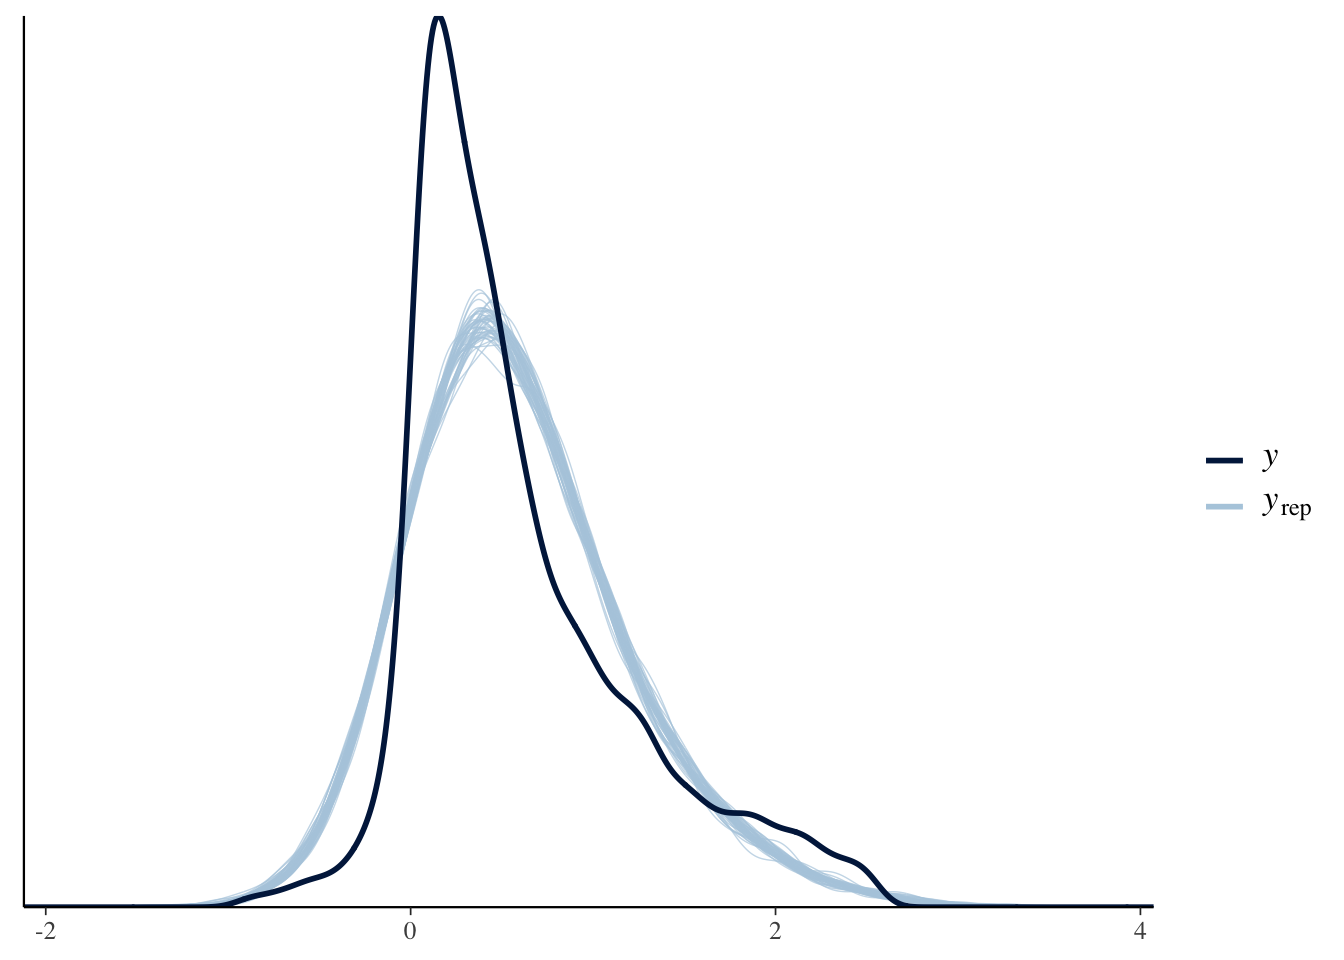
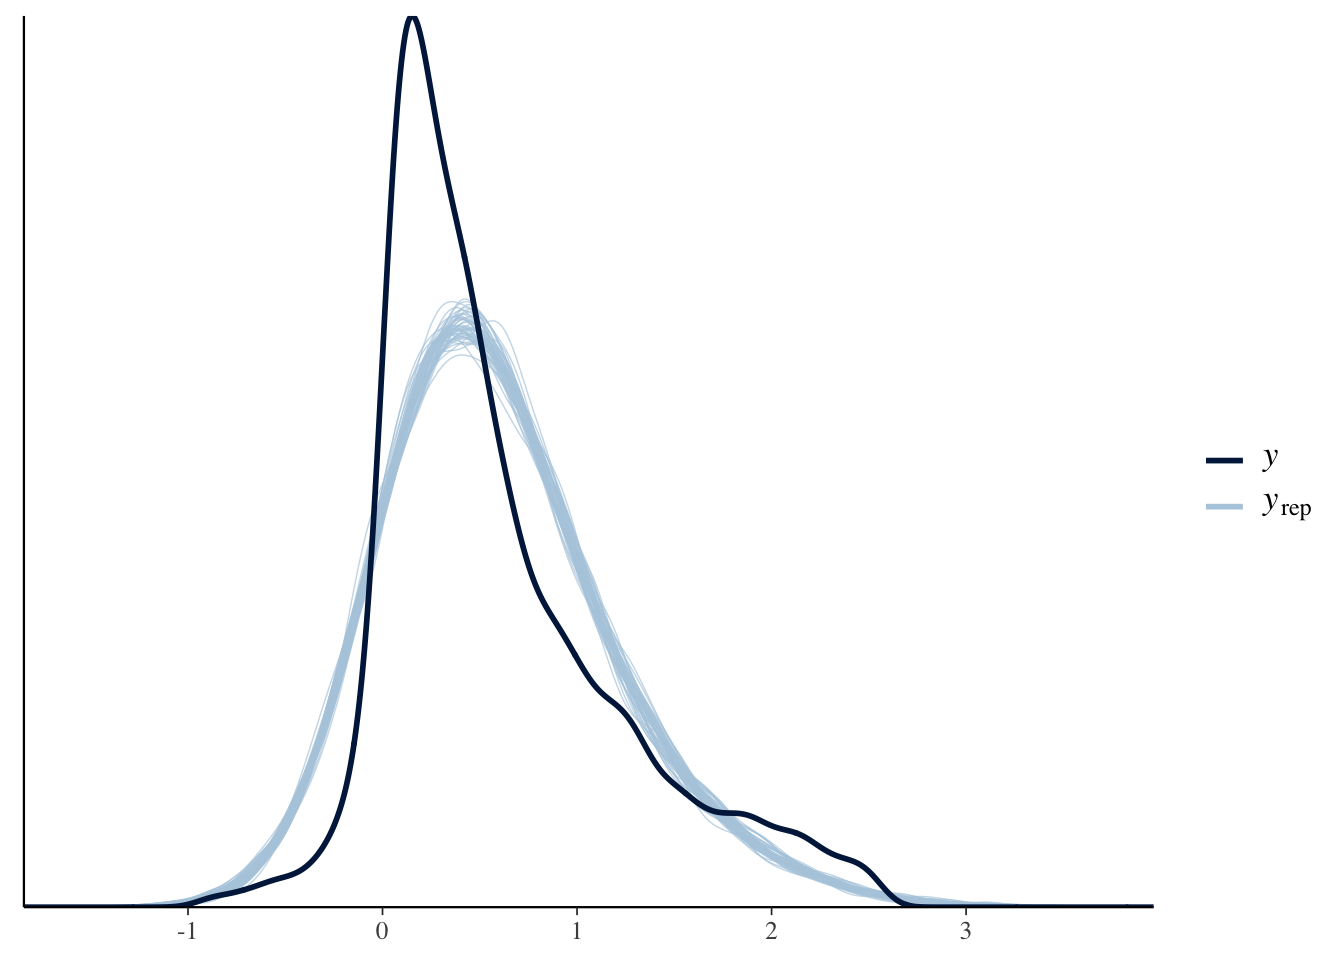
final edits

Changed region(s): [[0.125, 0.0, 0.5938, 0.9688], [0.5938, 0.9062, 0.6875, 0.9375], [0.2812, 0.9375, 0.3125, 0.9688]]

diff --git a/docs/finalmodel.html b/docs/finalmodel.html
@@ -275,19 +275,17 @@ Y_{ij} | \beta_{0j}, \beta_{1j}, \sigma_y &amp; \sim N(\mu_{ij}, \sigma_y^2) \;\
 <h2><span class="header-section-number">5.2</span> Model Evaluation</h2>
 <div id="diagnostic-plots" class="section level3" number="5.2.1">
 <h3><span class="header-section-number">5.2.1</span> Diagnostic Plots</h3>
-<div class="sourceCode" id="cb68"><pre class="sourceCode r"><code class="sourceCode r"><span id="cb68-1"><a href="finalmodel.html#cb68-1" aria-hidden="true" tabindex="-1"></a><span class="fu">mcmc_trace</span>(Diff_inter_slope_train)</span>
-<span id="cb68-2"><a href="finalmodel.html#cb68-2" aria-hidden="true" tabindex="-1"></a><span class="fu">mcmc_dens_overlay</span>(Diff_inter_slope_train)</span></code></pre></div>
-<div class="sourceCode" id="cb69"><pre class="sourceCode r"><code class="sourceCode r"><span id="cb69-1"><a href="finalmodel.html#cb69-1" aria-hidden="true" tabindex="-1"></a><span class="fu">pp_check</span>(Diff_inter_slope_train)</span></code></pre></div>
-<p><img src="series_files/figure-html/unnamed-chunk-68-1.png" width="672" /></p>
-<p>The model did an okay job modeling the true structure of the data. We see that several company earnings’ on the right seem to be causing the model some difficulties.</p>
+<div class="sourceCode" id="cb68"><pre class="sourceCode r"><code class="sourceCode r"><span id="cb68-1"><a href="finalmodel.html#cb68-1" aria-hidden="true" tabindex="-1"></a><span class="fu">pp_check</span>(Diff_inter_slope_train)</span></code></pre></div>
+<p><img src="series_files/figure-html/unnamed-chunk-67-1.png" width="672" /></p>
+<p>The model did an okay job modeling the true structure of the data. We see that several company earnings’ on the right still seem to be causing the model some difficulties.</p>
 </div>
 <div id="metrics" class="section level3" number="5.2.2">
 <h3><span class="header-section-number">5.2.2</span> Metrics</h3>
-<div class="sourceCode" id="cb70"><pre class="sourceCode r"><code class="sourceCode r"><span id="cb70-1"><a href="finalmodel.html#cb70-1" aria-hidden="true" tabindex="-1"></a>Diff_inter_slope_metrics</span></code></pre></div>
+<div class="sourceCode" id="cb69"><pre class="sourceCode r"><code class="sourceCode r"><span id="cb69-1"><a href="finalmodel.html#cb69-1" aria-hidden="true" tabindex="-1"></a>Diff_inter_slope_metrics</span></code></pre></div>
 <pre><code>##         MAE  Within95  Within50  Within90
 ## 1 0.2781092 0.7931034 0.4935345 0.7262931</code></pre>
 <p>In our model with varying intercepts and slopes the average median posterior prediction is off by 0.28 billion. Furthermore, 79.3% of the earnings next year fall within the 95% prediction intervals and 49.4% are within the 50% prediction intervals.</p>
-<div class="sourceCode" id="cb72"><pre class="sourceCode r"><code class="sourceCode r"><span id="cb72-1"><a href="finalmodel.html#cb72-1" aria-hidden="true" tabindex="-1"></a><span class="fu">tidy</span>(Diff_inter_slope_train, <span class="at">effects =</span> <span class="st">&quot;fixed&quot;</span>, <span class="at">conf.int =</span> <span class="cn">TRUE</span>, <span class="at">conf.level =</span> .<span class="dv">80</span>)</span></code></pre></div>
+<div class="sourceCode" id="cb71"><pre class="sourceCode r"><code class="sourceCode r"><span id="cb71-1"><a href="finalmodel.html#cb71-1" aria-hidden="true" tabindex="-1"></a><span class="fu">tidy</span>(Diff_inter_slope_train, <span class="at">effects =</span> <span class="st">&quot;fixed&quot;</span>, <span class="at">conf.int =</span> <span class="cn">TRUE</span>, <span class="at">conf.level =</span> .<span class="dv">80</span>)</span></code></pre></div>
 <pre><code>## # A tibble: 13 × 5
 ##    term                          estimate std.error conf.low conf.high
 ##    &lt;chr&gt;                            &lt;dbl&gt;     &lt;dbl&gt;    &lt;dbl&gt;     &lt;dbl&gt;
@@ -306,7 +304,7 @@ Y_{ij} | \beta_{0j}, \beta_{1j}, \sigma_y &amp; \sim N(\mu_{ij}, \sigma_y^2) \;\
 ## 13 SectorUtilities               0.0597     0.0685   -0.0272    0.148</code></pre>
 <p>The impact of this year’s earnings is much stronger compared to the other variables (0.5467834739). It states that for one billion increase in earnings this year, the earnings for next year will increase by 0.5467 billions. Earnings next year also has much stronger impact than earnings 1 year ago.</p>
 <p>About the sector, the situation is also fairly similar as companies that are in Consumer Staples, Energy, or Financials will likely to have higher next year’s earnings than the others. However, in this model, the impact of the sector is smaller than the Diff_inter_train model. The most notable negative earnings impact also comes from real estate as according to the model, company that is in real estate will see the earnings next year smaller than the baseline earnings of 0.12 billions.</p>
-<div class="sourceCode" id="cb74"><pre class="sourceCode r"><code class="sourceCode r"><span id="cb74-1"><a href="finalmodel.html#cb74-1" aria-hidden="true" tabindex="-1"></a><span class="fu">tidy</span>(Diff_inter_slope_train, <span class="at">effects =</span> <span class="st">&quot;ran_pars&quot;</span>)</span></code></pre></div>
+<div class="sourceCode" id="cb73"><pre class="sourceCode r"><code class="sourceCode r"><span id="cb73-1"><a href="finalmodel.html#cb73-1" aria-hidden="true" tabindex="-1"></a><span class="fu">tidy</span>(Diff_inter_slope_train, <span class="at">effects =</span> <span class="st">&quot;ran_pars&quot;</span>)</span></code></pre></div>
 <pre><code>## # A tibble: 4 × 3
 ##   term                                    group    estimate
 ##   &lt;chr&gt;                                   &lt;chr&gt;       &lt;dbl&gt;
@@ -314,16 +312,16 @@ Y_{ij} | \beta_{0j}, \beta_{1j}, \sigma_y &amp; \sim N(\mu_{ij}, \sigma_y^2) \;\
 ## 2 sd_EARNINGS_Scaled.COMPANY              COMPANY     0.316
 ## 3 cor_(Intercept).EARNINGS_Scaled.COMPANY COMPANY    -0.743
 ## 4 sd_Observation.Residual                 Residual    0.353</code></pre>
-<p>The standard deviation <span class="math inline">\(\sigma_1\)</span> in the Earnings scaled coefficient (<span class="math inline">\(\beta_{1j}\)</span>) is likely to be around 0.31 billion per year. In the grand scheme of things, this number is quite high.</p>
+<p>The standard deviation <span class="math inline">\(\sigma_1\)</span> in the Earnings scaled coefficient (<span class="math inline">\(\beta_{1j}\)</span>) is likely to be around 0.31 billion per year. It refers that the standard deviation of the random slope for the Earnings coefficient is 0.31 billion dollars, which is a fairly high number.</p>
 <p>For <span class="math inline">\(\sigma_y\)</span>, an individual Company’s net earnings next year tend to deviate from their own mean model by 0.35 billion.</p>
 <p>There is a semi strong correlation between the Company Specific <span class="math inline">\(\beta_{0j}\)</span> and <span class="math inline">\(\beta_{1j}\)</span> parameters of -0.74. It seems that company’s with initial earnings will tend to experience a decrease in earnings compared to their previous years.</p>
 </div>
 </div>
 <div id="summary" class="section level2" number="5.3">
 <h2><span class="header-section-number">5.3</span> Summary</h2>
-<p>Our model demonstrates that a company’s future earnings…</p>
-<p>Pros:</p>
-<p>Cons:</p>
+<p>Our model demonstrates that future earnings are somewhat dependent on the specific company and their current and previous earnings. It also demonstrates that there are tons of other external factors that make earnings volatile from year to year, adding uncertainty into the model. The average posterior prediction for future earnings is 0.28 billion off from the true earnings that year. Furthermore, 79.3% of the earnings next year fall within the 95% prediction intervals and 49.4% are within the 50% prediction intervals. This model was the best of the ones we explored during this project, however its accuracy suffered due to the differences in companies and volatile earnings.</p>
+<p>Pros: Our pro of our model is that we are able to have companies gain information from other companies. We can also model and edit parameter information regarding earnings between companies and within companies.</p>
+<p>Cons: In our model, we assume earnings are indpendent of earnings in the past. However, bayes forcast is able to model soley based off past patterns and trends.</p>
 
 </div>
 </div>

diff --git a/docs/hierarchical-modeling.html b/docs/hierarchical-modeling.html
@@ -358,7 +358,8 @@ Y_{ij} | \beta_{0j}, \beta_{1j}, \sigma_y &amp; \sim N(\mu_{ij}, \sigma_y^2) \;\
 <div class="sourceCode" id="cb28"><pre class="sourceCode r"><code class="sourceCode r"><span id="cb28-1"><a href="hierarchical-modeling.html#cb28-1" aria-hidden="true" tabindex="-1"></a><span class="fu">set.seed</span>(<span class="dv">84732</span>)</span>
 <span id="cb28-2"><a href="hierarchical-modeling.html#cb28-2" aria-hidden="true" tabindex="-1"></a><span class="fu">predict_model</span>(<span class="st">&quot;AMZN&quot;</span>, Diff_inter_slope_train)</span></code></pre></div>
 <p><img src="series_files/figure-html/unnamed-chunk-33-1.png" width="672" /></p>
-<p>The predictions for the second model seem to be slightly better as more posterior predictive points are nearer to the actual values of earnings in “2020”.</p>
+<p>The predictions for the second model (different intercepts and slopes) seem to be slightly better as more posterior predictive points are nearer to the actual values of earnings in “2020”.</p>
+<p>Notice how for both models, predictions for Delta Air Lines are completely off from the actual data. However, in our model with different intercepts and slopes, more predictions are closer to the actual value, thus having the model mean being closer as well.</p>
 <p><strong>Evaluating Metrics</strong></p>
 <p>For the prediction metrics, using the training data set, we calculated 20,000 values for each individual company for their earnings next year (the last year we have data on them) using the hierarchical models. We then take the median value of the 20,000 for each company and calculate the mean distance from the median to the actual earnings observed for that year. We also computed the 95% and 50% prediction intervals by calculating the percentage of 20,000 predicted values are within the 2.5th and 97.5th percentile and 25 to 75th percentile respectively.</p>
 <p>Different Intercepts Model:</p>

diff --git a/docs/reflection.html b/docs/reflection.html
@@ -237,7 +237,7 @@ code span.wa { color: #60a0b0; font-weight: bold; font-style: italic; } /* Warni
 <div id="code-appendix" class="section level2" number="6.4">
 <h2><span class="header-section-number">6.4</span> Code Appendix</h2>
 <p>To reproduce these results, the complete files and data are provided below:</p>
-<div class="sourceCode" id="cb76"><pre class="sourceCode r"><code class="sourceCode r"><span id="cb76-1"><a href="reflection.html#cb76-1" aria-hidden="true" tabindex="-1"></a>xfun<span class="sc">::</span><span class="fu">embed_files</span>(<span class="fu">c</span>(<span class="st">&#39;data.Rmd&#39;</span>, <span class="st">&#39;modeling.Rmd&#39;</span>, <span class="st">&#39;finalmodel.Rmd&#39;</span>, <span class="st">&#39;FINALDATASET.csv&#39;</span>, <span class="st">&#39;RandomCompnay.csv&#39;</span>, <span class="st">&#39;Diff_Inter_train_nick.rds&#39;</span>, <span class="st">&#39;Diff_inter_slope_train_nick.rds&#39;</span>))</span></code></pre></div>
+<div class="sourceCode" id="cb75"><pre class="sourceCode r"><code class="sourceCode r"><span id="cb75-1"><a href="reflection.html#cb75-1" aria-hidden="true" tabindex="-1"></a>xfun<span class="sc">::</span><span class="fu">embed_files</span>(<span class="fu">c</span>(<span class="st">&#39;data.Rmd&#39;</span>, <span class="st">&#39;modeling.Rmd&#39;</span>, <span class="st">&#39;finalmodel.Rmd&#39;</span>, <span class="st">&#39;FINALDATASET.csv&#39;</span>, <span class="st">&#39;RandomCompnay.csv&#39;</span>, <span class="st">&#39;Diff_Inter_train_nick.rds&#39;</span>, <span class="st">&#39;Diff_inter_slope_train_nick.rds&#39;</span>))</span></code></pre></div>
 
 </div>
 </div>
